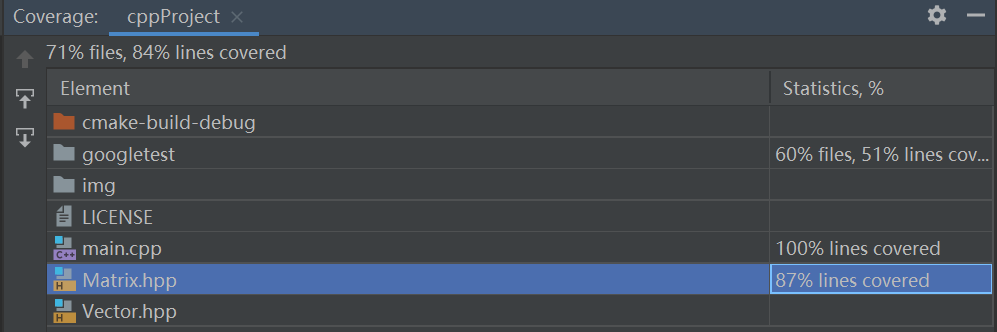
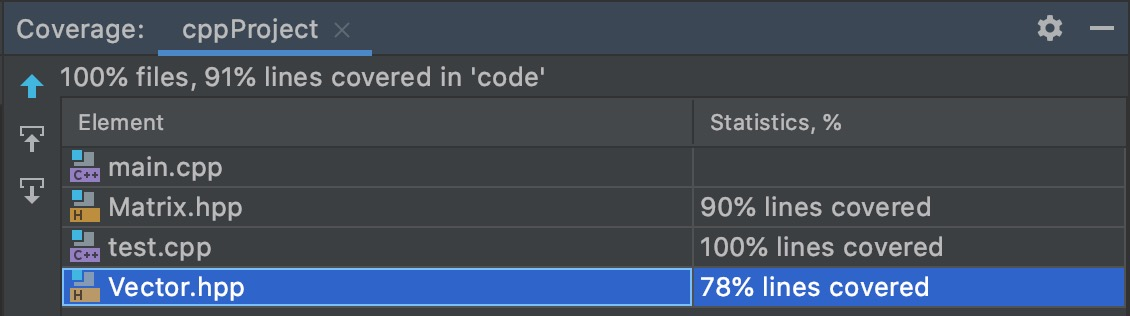
更新readme

diff --git a/README.md b/README.md
@@ -1,11 +1,5 @@
 # C-project
 ## 说明
-### TODO
-矩阵特征向量
-
-稀疏矩阵存储
-
-test覆盖率
 ### windows 配置如下
 `cygwin` +`opencv3.4` 
 ### mac 配置如下
@@ -38,16 +32,6 @@ test覆盖率
 
 `make install`
 
-添加测试run后会报错，还未解决
-
-但先运行coverage后run就不报错了，不知道为啥
-## 短期目标：
-1) 稀疏矩阵的存储
-2) 计算特征向量，计算逆。
-3) 它应该尽可能多地处理可能出现的异常。
-
-**已添加部分测试**
-
 目前测试覆盖率：
 
 ![image-1](img/coverage.png)
@@ -57,124 +41,6 @@ test覆盖率
 工具为gcov
 
 ![image-2](img/usage.png)
-
-## 已完成（矩阵部分）：
-
-### 基本属性
-`vector<vector<complex<double>>> vector` 每个元素为`std::complex<double>`的二维vector
-
-`int row, column;` 矩阵的行，列。
-
-`x.show();` 打印x矩阵，结果类似于python中np
-
-`x.showSize()` 打印x矩阵的行列，用于异常提醒
-
-`x.getRow()` 返回x矩阵的行数
-
-`x.getColumn()`返回x矩阵的列数
-### 初始化（默认每个元素为std::complex<double>，使用二维vector存储）
-
-`vector x;` x为row=0，column=0的空矩阵。
-
-`Matrix x = Matrix(3, 4);` x为row=3，column=4的所有项为0的矩阵
-
-`Matrix x= Matrix(10);` x为row=1，column=10的向量。
-
-### 设置行，列
-
-`x.setRow(10);` 将x的row设定为10，若x原先的row小于10则扩充元素为0的矩阵，若x的row大于10，则删除掉多余的row
-
-`x.setColumn(10);`将x的column设定为10，若x原先的column小于10则扩充元素为0的矩阵，若x的column大于10，则删除掉多余的column
-
-### 重载[]访问矩阵元素
-`x[i][j]` 访问矩阵x的第i行第j列元素。
-
-### 重载+ - *，实现矩阵间的运算，矩阵和向量间的运算
-`y=a+b;` y为矩阵a和b的和，若a和b的size不相等，则会抛出异常。
-
-`y=a+b;` y为矩阵a和向量b的和，其中y的结果为a的每行加上b
-
-### 基本算术操作
-`x.findMax()` 返回矩阵x中实数部分最大的实数部分（由于复数无法比较大小，方法只对矩阵中所有元素的实部进行比较），如果矩阵为空矩阵则返回0
-
-`x.findMaxAtRow(int row)` 返回矩阵x中第row行的最大的实数部分
-
-`x.findMaxAtColumn(int column)` 返回矩阵x中第column行的最大的实数部分
-
-`x.findMin()` 返回矩阵x中最小的实数部分
-
-`x.findMinAtRow(int row)` 返回矩阵x第row行中最小的实数部分
-
-`x.findMinAtColumn(int column)` 返回矩阵x中第column行中最小的实数部分
-
-`x.findSum()`返回矩阵x中所有元素的和，返回值为复数，若x为空矩阵返回实部虚部都为0的复数。
-
-`x.findSumAtRow(int row)` 返回矩阵x中第row行的元素和。
-
-`x.findSumAtColumn(int column)` 返回矩阵x中第colum行的元素和。 
-
-`x.findAverage()` 返回矩阵x中的平均值，返回值为复数，若为空矩阵则返回实部虚部都为0的复数。
-
-`x.findAverageAtRow(int row)` 返回矩阵x中第row行的平均值。
-
-`x.findAverageAtColumn(int column);` 返回矩阵x中第column列的平均值。
-
-`x.transposition()` 返回x的转置
-
-`x.transposition_change()` 返回x的转置（并且x变成自己的转置）。
-
-`x.element_wise_multiplication(y)`返回x与y的元素乘结果
-
-`x.element_wise_multiplication_change(y)` 返回x与y的元素乘结果,并改变x
-
-`x.conjugation_change();` 返回x的共轭矩阵，并改变x
-## 已完成（向量部分）
-### 基本属性
-`vector<complex<double>> vector` 每个元素为std::complex<double>的一维vector
-
-`int length` 向量的长度。
-
-`getLength()` 返回向量的长度。
-### 初始化
-`Vector x=Vector()` 生成一个长度为0的空向量
-
-`Vector x=Vector(int length)` 生成一个长度位length的向量，所有元素为{0,0}
-### 设置长度
-`x.setLength(int length)` 将向量的长度设置为length，多的元素补为{0,0}，少的部分删掉元素。
-### 重载[]访问向量元素
-`x[i]`访问向量x的第i位元素
-### 重载+ - * 进行向量和矩阵间的运算，向量和向量的运算，向量和常数间的运算
-`y=a+b` 向量y为a和b的向量和
-
-`y=a-b` 向量y为a和b的向量差
-### 基本算数操作
-`x.findMax()` 返回实部最大的元素的实部
-
-`x.findMin()` 返回实部最小的元素的实部
-
-`x.findSum()` 返回向量所有元素的和
-
-`x.findAverage()` 返回向量所有元素的平均值
-
-`x.dot_product(y)` 返回x与向量y的点积
-
-`x.conjugation()` 返回x的共轭向量
-
-`x.conjugation_change();` 返回x的共轭向量，同时改变x
-
-`x.element_wise_multiplication()` 返回x与y的元素乘积
-
-`x.element_wise_multiplication_change(y)` 返回x与y的元素乘积,并改变x
-
-`x.reshape(int row,int column)` 将x变成行为row，列为column的矩阵，若元素不足补0，反之舍弃多余元素
-
-`x.reshape_change(int row,int column)` 同上，并改变x
-
-`x.slicing(int from,int to)` 将x的[from,to)范围内元素切片成向量或一维矩阵
-
-`x.cal_traces()` 返回矩阵的trace（迹，对角线元素和）
-
-
 
 ## 需求文档
 Building a library for matrix computation
